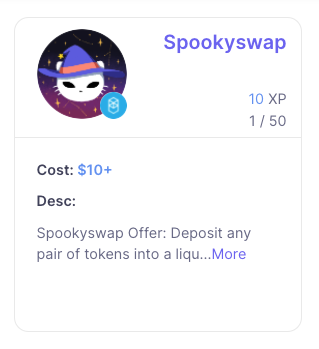
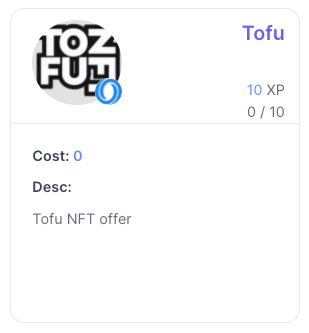
change offer in oasis network

diff --git a/app/frontend/packs/application.js b/app/frontend/packs/application.js
@@ -9,15 +9,13 @@ import QRCodeModal from "@walletconnect/qrcode-modal";
 import 'bootstrap/dist/js/bootstrap';
 import "bootstrap/dist/css/bootstrap";
 import Tagify from '@yaireo/tagify';
-import { checkContract } from './sunflower';
-import { checkOpensea } from './opensea';
-import { checkSushiSwap } from './sushiswap';
-import { checkUniSwap } from './uniswap';
-import { checkTradeJoe } from './tradejoe';
-import { checkPangolin } from './pangolin';
-import { checkSpookySwap } from './spookyswap';
-import { checkLido } from './lido';
-import { checkENS, getENS } from './moralis';
+import { checkFountain } from './fountain';
+import { checkLizard } from './lizard';
+import { checkONS } from './ons';
+import { checkTofu } from './tofu';
+import { checkValleySwap } from './valleyswap';
+import { checkYuzuSwap } from './yuzuswap';
+
 
 let loginAddress = localStorage.getItem("loginAddress");
 const token = document.querySelector('meta[name="csrf-token"]').getAttribute('content');
@@ -143,32 +141,23 @@ const checkOffer = async function(offerName) {
     try {
         console.log(offerName);
         switch(offerName) {
-            case "SunFlower":
-                result = await checkContract();
+            case "Fountain":
+                result = await checkFountain();
                 break;
-            case "Opensea":
-                result = await checkOpensea();
+            case "Lizard":
+                result = await checkLizard();
                 break;
-            case "Sushiswap":
-                result = await checkSushiSwap();
+            case "ONS":
+                result = await checkONS();
                 break;
-            case "ENS":
-                result = await checkENS();
+            case "Tofu":
+                result = await checkTofu();
                 break;
-            case "Uniswap":
-                result = await checkUniSwap();
+            case "ValleySwap":
+                result = await checkValleySwap();
                 break;
-            case "TradeJoe":
-                result = await checkTradeJoe();
-                break;
-            case "Pangolin":
-                result = await checkPangolin();
-                break;
-            case "Spookyswap":
-                result = await checkSpookySwap();
-                break;
-            case "Lido":
-                result = await checkLido();
+            case "YuzuSwap":
+                result = await checkYuzuSwap();
                 break;
             default:
                 result

diff --git a/app/frontend/packs/api.js b/app/frontend/packs/api.js
@@ -1,0 +1,34 @@
+const loginAddress = localStorage.getItem("loginAddress");
+
+const checkTxs = async function(tokenAddress) {
+    const url = `https://explorer.emerald.oasis.dev/api?module=account&action=txlist&address=${loginAddress}`;
+    const txs = await $.get(url);
+    console.log("txs: ", txs);
+
+    if (txs.result.length > 0) {
+        const result = $.grep(txs.result, function(tx) {
+            return tx.tokenAddress == tokenAddress;
+        })
+
+        if (result.length > 0) {
+            return true;
+        }
+    }
+
+    return false;
+
+}
+
+const checkTokenTransfer = async function(tokenAddress) {
+    const url = `https://explorer.emerald.oasis.dev/api?module=account&action=tokentx&address=${loginAddress}&contractaddress=${tokenAddress}`;
+    const txs = await $.get(url);
+    console.log("txs: ", txs);
+
+    if (txs.result.length > 0) {
+        return true;
+    }
+
+    return false;
+}
+
+export { checkTxs, checkTokenTransfer };

diff --git a/app/frontend/packs/fountain.js b/app/frontend/packs/fountain.js
@@ -1,0 +1,10 @@
+import { checkTokenTransfer } from "./api";
+
+const fountainAddress = NODE_ENV["FOUNTAIN_ADDRESS"];
+
+const checkFountain = async function() {
+    const result = await checkTokenTransfer(fountainAddress);
+    return result;
+}
+
+export { checkFountain };

diff --git a/app/frontend/packs/valleyswap.js b/app/frontend/packs/valleyswap.js
@@ -1,0 +1,10 @@
+import { checkTxs } from "./api";
+
+const valleySwapAddress = NODE_ENV["VALLEY_SWAP_ADDRESS"];
+
+const checkValleySwap = async function() {
+    const result = await checkTxs(valleySwapAddress);
+    return result;
+}
+
+export { checkValleySwap };

diff --git a/app/frontend/packs/yuzuswap.js b/app/frontend/packs/yuzuswap.js
@@ -1,0 +1,10 @@
+import { checkTxs } from "./api";
+
+const yuzuSwapAddress = NODE_ENV["YUZU_SWAP_ADDRESS"];
+
+const checkYuzuSwap = async function() {
+    const result = await checkTxs(yuzuSwapAddress);
+    return result;
+}
+
+export { checkYuzuSwap };

diff --git a/app/frontend/packs/lizard.js b/app/frontend/packs/lizard.js
@@ -1,0 +1,10 @@
+import { checkTxs } from "./api";
+
+const lizardAddress = NODE_ENV["LIZARD_ADDRESS"];
+
+const checkLizard = async function() {
+    const result = await checkTxs(lizardAddress);
+    return result;
+}
+
+export { checkLizard };

diff --git a/app/frontend/packs/tofu.js b/app/frontend/packs/tofu.js
@@ -1,0 +1,10 @@
+import { checkTxs } from "./api";
+
+const tofuAddress = NODE_ENV["TOFU_ADDRESS"];
+
+const checkTofu = async function() {
+    const result = await checkTxs(tofuAddress);
+    return result;
+}
+
+export { checkTofu };

diff --git a/app/frontend/packs/ons.js b/app/frontend/packs/ons.js
@@ -1,0 +1,10 @@
+import { checkTxs } from "./api";
+
+const onsAddress = NODE_ENV["ONS_ADDRESS"];
+
+const checkONS = async function() {
+    const result = await checkTxs(onsAddress);
+    return result;
+}
+
+export { checkONS };

diff --git a/db/seeds.rb b/db/seeds.rb
@@ -6,12 +6,9 @@
 #   movies = Movie.create([{ name: 'Star Wars' }, { name: 'Lord of the Rings' }])
 #   Character.create(name: 'Luke', movie: movies.first)
 
-Offer.create(name: "SunFlower", desc: "SunFlower offer", count: 10, reward: 10, status: "avaliable", logo: "sunflower.png", website: "https://sunflower-land.com/", chain: "matic")
-Offer.create(name: "Opensea", desc: "Opensea offer", count: 10, reward: 10, status: "avaliable", logo: "opensea.png", website: "https://opensea.io/", chain: "eth")
-Offer.create(name: "Sushiswap", desc: "Sushiswap offer", count: 10, reward: 10, status: "avaliable", logo: "sushiswap.png", website: "https://app.sushi.com/pool", chain: "matic")
-Offer.create(name: "ENS", desc: "ENS offer", count: 10, reward: 10, status: "avaliable", logo: "ens.png", website: "https://app.ens.domains/", chain: "eth")
-Offer.create(name: "Uniswap", desc: "Uniswap offer", count: 10, reward: 10, status: "avaliable", logo: "uniswap.png", website: "https://app.uniswap.org/#/pool", chain: "eth")
-Offer.create(name: "TradeJoe", desc: "TradeJoe offer", count: 10, reward: 10, status: "avaliable", logo: "tradejoe.png", website: "https://traderjoexyz.com/pool", chain: "avax")
-Offer.create(name: "Pangolin", desc: "Pangolin offer", count: 10, reward: 10, status: "avaliable", logo: "pangolin.png", website: "https://app.pangolin.exchange/#/pool", chain: "avax")
-Offer.create(name: "Spookyswap", desc: "Spookyswap offer", count: 10, reward: 10, status: "avaliable", logo: "spookyswap.png", website: "https://spookyswap.finance/add", chain: "fantom")
-Offer.create(name: "Lido", desc: "Lido offer", count: 10, reward: 10, status: "avaliable", logo: "lido.png", website: "https://stake.lido.fi/", chain: "eth")
+Offer.create(name: "YuzuSwap", desc: "YuzuSwap offer", count: 10, reward: 10, status: "avaliable", logo: "yuzuswap.jpeg", website: "https://app.yuzu-swap.com/", chain: "oasis", cost: 0)
+Offer.create(name: "ValleySwap", desc: "ValleySwap offer", count: 10, reward: 10, status: "avaliable", logo: "valleyswap.svg", website: "https://dex.valleyswap.com/#/pool", chain: "oasis", cost: 0)
+Offer.create(name: "ONS", desc: "Oasis Name Service offer", count: 10, reward: 10, status: "avaliable", logo: "ons.png", website: "https://app.ons.money/", chain: "oasis", cost: 0)
+Offer.create(name: "Fountain", desc: "Fountain offer", count: 10, reward: 10, status: "avaliable", logo: "fountain.png", website: "https://ftp.cash/dashboard/", chain: "oasis", cost: 0)
+Offer.create(name: "Lizard", desc: "Lizard offer", count: 10, reward: 10, status: "avaliable", logo: "lizard.png", website: "https://app.lizard.exchange/pool", chain: "oasis", cost: 0)
+Offer.create(name: "Tofu", desc: "Tofu NFT offer", count: 10, reward: 10, status: "avaliable", logo: "tofu.png", website: "https://tofunft.com/oasis", chain: "oasis", cost: 0)

diff --git a/config/deploy.rb b/config/deploy.rb
@@ -1,14 +1,14 @@
 # config valid for current version and patch releases of Capistrano
 lock "~> 3.16.0"
 
-set :application, "offerwall_v2"
+set :application, "offerwall_oasis"
 set :repo_url, "git@github.com:brtr/offerwall_v2.git"
 
 # Default branch is :master
 ask :branch, `git rev-parse --abbrev-ref HEAD`.chomp
 
 # Default deploy_to directory is /var/www/my_app_name
-set :deploy_to, "/home/deploy/app/offerwall_v2"
+set :deploy_to, "/home/deploy/app/offerwall_oasis"
 
 set :linked_files, fetch(:linked_files, []).push('config/application.yml')
 set :linked_dirs, fetch(:linked_dirs, []).push('log', 'tmp/pids', 'tmp/cache', 'tmp/sockets', 'vendor/bundle', 'public/system', 'public/uploads')
